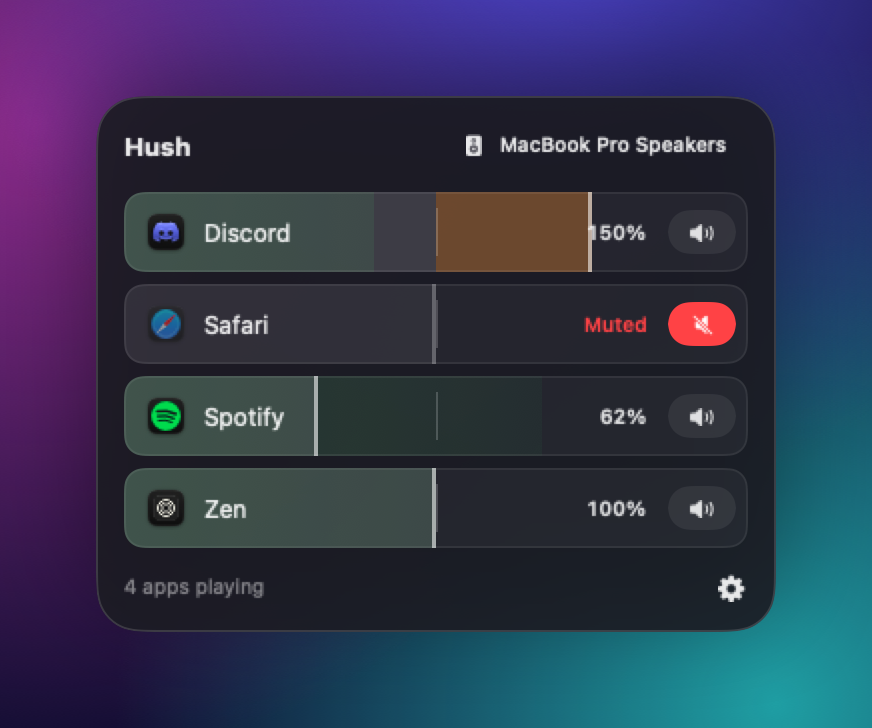
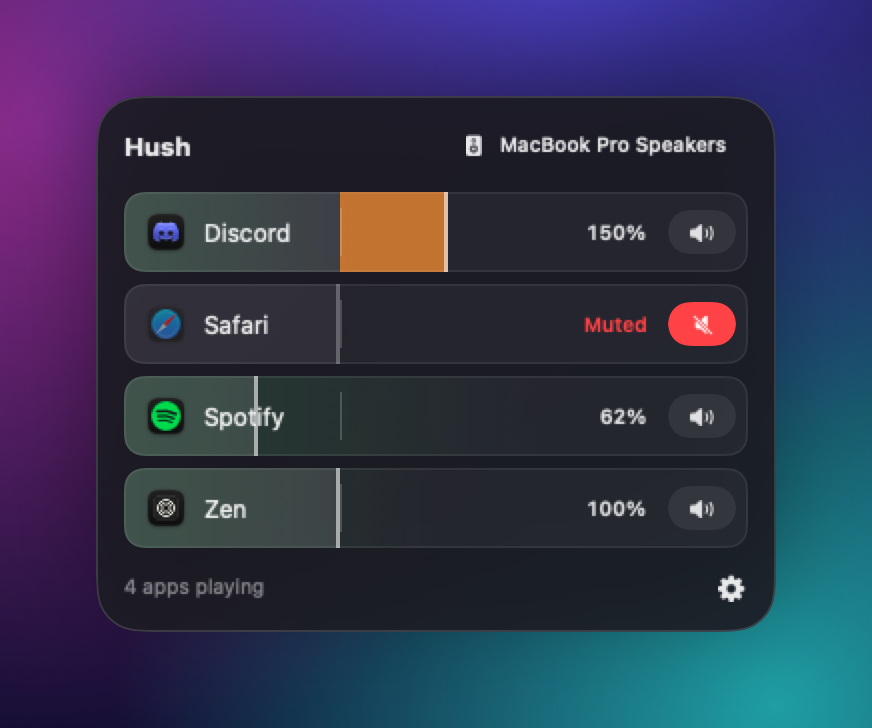
fix(ui): keep tile percent legible and render boost as amber
The tile track now ends before the percent label, the boost fill is a stronger amber, and the meter glow fades out at the level edge instead of ending in a hard band. Re-render the tiles screenshot.

Changed region(s): [[0.3716, 0.2418, 0.6812, 0.4835], [0.3716, 0.6346, 0.5264, 0.7555], [0.2787, 0.5137, 0.3716, 0.6346]]

diff --git a/Sources/HushUI/VolumeTile.swift b/Sources/HushUI/VolumeTile.swift
@@ -73,6 +73,10 @@ private struct TileSurface: View {
     @Environment(\.colorSchemeContrast) private var contrast
     @Environment(\.mixerAppearance) private var appearance
 
+    /// Width of the percent label and mute button at the trailing edge. The slider's track ends
+    /// before it, so no fill edge or marker ever runs under the label, whatever the value.
+    private var labelColumn: CGFloat { appearance.isCompact ? 84 : 96 }
+
     private var scale: FaderScale { FaderScale(maxValue: maxPercent) }
 
     var body: some View {
@@ -81,7 +85,8 @@ private struct TileSurface: View {
         let boost = Palette.boost(colorScheme, contrast)
         let level = Palette.systemAccentIfChosen(appearance.accent, colorScheme, contrast)
         GeometryReader { geometry in
-            let width = geometry.size.width
+            let full = geometry.size.width
+            let width = max(full - labelColumn, 1)
             ZStack(alignment: .leading) {
                 Color.primary.opacity(contrast == .increased ? 0.12 : 0.05)
                 if appearance.showMeters {
@@ -92,7 +97,7 @@ private struct TileSurface: View {
                     .frame(width: width * scale.fraction(min(value, 100)))
                 if value > 100 {
                     // Boost: the stretch past the 100% tick, in the accent colour.
-                    boost.opacity(muted ? 0.12 : (contrast == .increased ? 0.5 : 0.32))
+                    boost.opacity(muted ? 0.14 : (contrast == .increased ? 0.6 : (colorScheme == .dark ? 0.72 : 0.5)))
                         .frame(width: width * (scale.fraction(value) - scale.fraction(100)))
                         .offset(x: width * scale.fraction(100))
                 }
@@ -120,7 +125,7 @@ private struct TileSurface: View {
                         if value != 100 { actions.reset() }
                         return
                     }
-                    let newValue = scale.percent(atPosition: drag.location.x / max(width, 1))
+                    let newValue = scale.percent(atPosition: drag.location.x / width)
                     if newValue != value { actions.setPercent(newValue) }
                 }
             )

diff --git a/Sources/HushUI/LevelMeter.swift b/Sources/HushUI/LevelMeter.swift
@@ -129,7 +129,16 @@ final class MeterNSView: NSView {
         CATransaction.begin()
         CATransaction.setDisableActions(true)
         reveal.bounds = revealBounds(fraction)
+        sizeFill()
         CATransaction.commit()
+    }
+
+    /// The bar's fill keeps its full size so the colour bands stay put. The glow instead shrinks
+    /// with the level, so its fade ends at the level edge and never leaves a hard band beyond it.
+    private func sizeFill() {
+        var size = bounds.size
+        if style == .glow { size.width = max(revealBounds(displayedFraction).width, 1) }
+        fill.bounds = CGRect(origin: .zero, size: size)
     }
 
     /// Layer space is y-up with the origin at the bottom-left, so a clip anchored at the origin
@@ -152,7 +161,7 @@ final class MeterNSView: NSView {
         reveal.position = .zero
         reveal.bounds = revealBounds(displayedFraction)
         fill.position = .zero
-        fill.bounds = CGRect(origin: .zero, size: bounds.size)
+        sizeFill()
         CATransaction.commit()
     }
 
